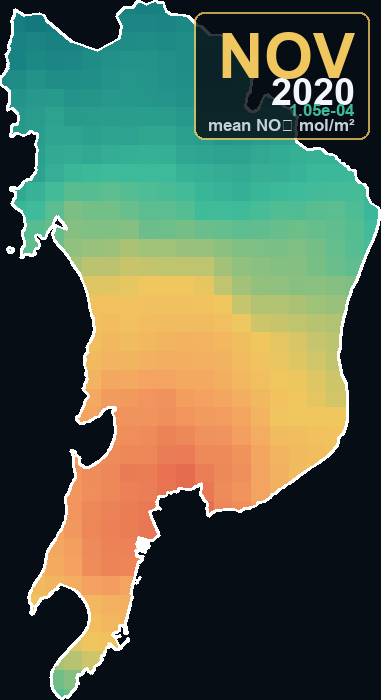
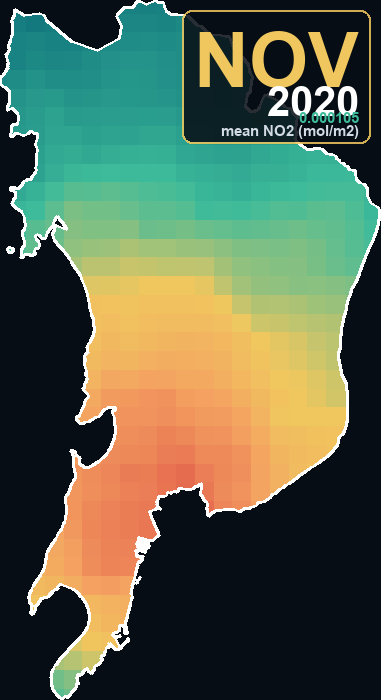
Fix GIF badge text and show NO2 values as normal decimals on the Q2 page.

Changed region(s): [[0.4619, 0.0, 0.9816, 0.21]]

diff --git a/web/q2/index.html b/web/q2/index.html
@@ -190,6 +190,7 @@
       margin: 0 0 8px;
       font-family: "Fraunces", Georgia, serif;
       font-size: clamp(1.35rem, 2.6vw, 1.85rem);
+      font-weight: 700;
       color: #fff;
       letter-spacing: -0.02em;
     }
@@ -263,7 +264,8 @@
     .season strong {
       display: block;
       font-family: "Fraunces", Georgia, serif;
-      font-size: 1.15rem;
+      font-size: 1.05rem;
+      font-weight: 700;
       color: #fff;
       margin-bottom: 2px;
     }
@@ -397,9 +399,9 @@
     .bar.low { background: linear-gradient(180deg, var(--teal), #147a7f); }
 
     .bar-label {
-      font-size: 0.65rem;
-      font-weight: 700;
-      color: var(--muted);
+      font-size: 0.68rem;
+      font-weight: 800;
+      color: var(--soft);
     }
 
     .panel { overflow: hidden; margin-top: 10px; }
@@ -540,11 +542,11 @@
       </p>
       <div class="stats">
         <div class="stat">
-          <strong id="stat-mean">8.61×10⁻⁵</strong>
+          <strong id="stat-mean">0.000086</strong>
           <span>city-wide mean NO₂ (mol/m²)</span>
         </div>
         <div class="stat">
-          <strong id="stat-p75">1.04×10⁻⁴</strong>
+          <strong id="stat-p75">0.000104</strong>
           <span>highest-quartile threshold (P75)</span>
         </div>
         <div class="stat">
@@ -645,7 +647,7 @@
         </div>
 
         <div class="bars" id="month-bars" aria-label="Monthly mean NO2 bar chart"></div>
-        <p style="color:var(--muted);font-size:0.82rem;margin-bottom:8px">
+        <p style="color:var(--soft);font-size:0.9rem;font-weight:800;margin-bottom:8px">
           City-wide monthly means · gold/coral = higher · teal = lowest month
         </p>
 
@@ -659,7 +661,7 @@
               <h3>Temporal result</h3>
               <p>
                 Means peak in December–February and fall from April through August.
-                December is highest (~1.68×10⁻⁴ mol/m²); May is lowest (~2.53×10⁻⁵ mol/m²).
+                December is highest (~0.000168 mol/m²); May is lowest (~0.000025 mol/m²).
               </p>
             </div>
             <div class="callout" style="margin-top:10px">
@@ -708,8 +710,8 @@
               <tr><th>Exposure summary</th><th>Value</th></tr>
             </thead>
             <tbody id="summary-table">
-              <tr><td>City-wide mean tropospheric NO₂</td><td>8.61×10⁻⁵ mol/m²</td></tr>
-              <tr><td>Highest-quartile threshold (P75)</td><td>1.04×10⁻⁴ mol/m²</td></tr>
+              <tr><td>City-wide mean tropospheric NO₂</td><td>0.000086 mol/m²</td></tr>
+              <tr><td>Highest-quartile threshold (P75)</td><td>0.000104 mol/m²</td></tr>
               <tr><td>Residents aged 65+ (city total)</td><td>7,31,666</td></tr>
               <tr><td>Residents aged 65+ in highest-NO₂ quartile</td><td>2,38,328</td></tr>
               <tr><td>Share of 65+ in highest-NO₂ quartile</td><td>32.57%</td></tr>
@@ -835,7 +837,7 @@
     const pre = avg([2, 3, 4]);
     const mon = avg([5, 6, 7]);
     const post = avg([8, 9, 10]);
-    const fmt = (v) => v.toExponential(2);
+    const fmt = (v) => Number(v).toFixed(6);
 
     document.getElementById("s-winter").textContent = fmt(winter);
     document.getElementById("s-pre").textContent = fmt(pre);
@@ -862,7 +864,7 @@
       const rel = ((v / annual - 1) * 100);
       const sign = rel >= 0 ? "+" : "";
       return `<tr>
-        <td>${label}</td>
+        <td><b>${label}</b></td>
         <td>${fmt(v)}</td>
         <td>${sign}${rel.toFixed(0)}%</td>
       </tr>`;
@@ -872,17 +874,17 @@
       .then((r) => r.ok ? r.json() : Promise.reject())
       .then((data) => {
         document.getElementById("stat-mean").textContent =
-          Number(data.no2_city_mean_mol_m2).toExponential(2);
+          fmt(data.no2_city_mean_mol_m2);
         document.getElementById("stat-p75").textContent =
-          Number(data.no2_p75_mol_m2).toExponential(2);
+          fmt(data.no2_p75_mol_m2);
         document.getElementById("stat-pop65").textContent =
           (Math.round(data.pop65_total) / 100000).toFixed(2) + " lakh";
         document.getElementById("stat-share").textContent =
           Number(data.share_pop65_in_highest_no2_quartile_percent).toFixed(1) + "%";
 
         document.getElementById("summary-table").innerHTML = `
-          <tr><td>City-wide mean tropospheric NO₂</td><td>${Number(data.no2_city_mean_mol_m2).toExponential(2)} mol/m²</td></tr>
-          <tr><td>Highest-quartile threshold (P75)</td><td>${Number(data.no2_p75_mol_m2).toExponential(2)} mol/m²</td></tr>
+          <tr><td>City-wide mean tropospheric NO₂</td><td>${fmt(data.no2_city_mean_mol_m2)} mol/m²</td></tr>
+          <tr><td>Highest-quartile threshold (P75)</td><td>${fmt(data.no2_p75_mol_m2)} mol/m²</td></tr>
           <tr><td>Residents aged 65+ (city total)</td><td>${Math.round(data.pop65_total).toLocaleString("en-IN")}</td></tr>
           <tr><td>Residents aged 65+ in highest-NO₂ quartile</td><td>${Math.round(data.pop65_in_highest_no2_quartile).toLocaleString("en-IN")}</td></tr>
           <tr><td>Share of 65+ in highest-NO₂ quartile</td><td>${Number(data.share_pop65_in_highest_no2_quartile_percent).toFixed(2)}%</td></tr>

diff --git a/web/q2/outputs/mumbai_2020_no2_timeslider.html b/web/q2/outputs/mumbai_2020_no2_timeslider.html
@@ -141,15 +141,15 @@
       <span class="m" id="month">JAN</span>
       <span class="y">2020</span>
       <span class="v" id="mean">1.21e-4</span>
-      <span class="s">mean NO₂ mol/m²</span>
+      <span class="s">mean NO2 (mol/m2)</span>
     </div>
   </div>
   <p class="legend">Low → High NO₂ <span class="legend-bar"></span> 0–0.0002 mol/m² · white line = city boundary</p>
   <script>
     const names = ["JAN","FEB","MAR","APR","MAY","JUN","JUL","AUG","SEP","OCT","NOV","DEC"];
     const means = [
-      1.21e-4, 1.34e-4, 6.88e-5, 3.12e-5, 2.53e-5, 3.38e-5,
-      2.62e-5, 3.30e-5, 5.70e-5, 9.03e-5, 1.05e-4, 1.68e-4
+      0.000121, 0.000134, 0.000069, 0.000031, 0.000025, 0.000034,
+      0.000026, 0.000033, 0.000057, 0.000090, 0.000105, 0.000168
     ];
     const slider = document.getElementById("slider");
     const frame = document.getElementById("frame");
@@ -160,7 +160,7 @@
       const m = String(slider.value).padStart(2, "0");
       frame.src = "monthly_frames/no2_2020_" + m + ".png";
       month.textContent = names[i];
-      mean.textContent = means[i].toExponential(2);
+      mean.textContent = means[i].toFixed(6);
     }
     slider.addEventListener("input", update);
     update();

diff --git a/question2/relabel_monthly_frames.py b/question2/relabel_monthly_frames.py
@@ -1,4 +1,4 @@
-"""Put a large month + year label in the top-right of each monthly frame and rebuild the GIF."""
+"""Put a large bold month + year label in the top-right of each monthly frame and rebuild the GIF."""
 from pathlib import Path
 
 from PIL import Image, ImageDraw, ImageFont
@@ -9,7 +9,6 @@ MONTHS = [
     "JAN", "FEB", "MAR", "APR", "MAY", "JUN",
     "JUL", "AUG", "SEP", "OCT", "NOV", "DEC",
 ]
-# city-wide monthly means (mol/m2) from the Q2 analysis
 MEANS = [
     0.00012122771002100347,
     0.0001344614113413094,
@@ -30,8 +29,8 @@ def get_font(size):
     candidates = [
         r"C:\Windows\Fonts\arialbd.ttf",
         r"C:\Windows\Fonts\segoeuib.ttf",
-        r"C:\Windows\Fonts\arial.ttf",
         r"C:\Windows\Fonts\calibrib.ttf",
+        r"C:\Windows\Fonts\arial.ttf",
     ]
     for path in candidates:
         try:
@@ -45,55 +44,55 @@ def label_frame(src: Path, month_idx: int) -> Image.Image:
     im = Image.open(src).convert("RGBA")
     canvas = Image.new("RGBA", im.size, (7, 13, 20, 255))
     canvas.alpha_composite(im)
-    draw = ImageDraw.Draw(canvas)
 
     month = MONTHS[month_idx]
     year = "2020"
-    mean_txt = f"{MEANS[month_idx]:.2e}"
-    sub = "mean NO₂ mol/m²"
+    mean_txt = f"{MEANS[month_idx]:.6f}"
+    sub = "mean NO2 (mol/m2)"
 
-    font_month = get_font(max(48, im.width // 6))
-    font_year = get_font(max(30, im.width // 10))
-    font_sub = get_font(max(16, im.width // 22))
+    font_month = get_font(max(56, im.width // 5))
+    font_year = get_font(max(34, im.width // 9))
+    font_sub = get_font(max(15, im.width // 24))
 
+    # Build a tight badge image first, then paste it.
+    probe = Image.new("RGBA", (800, 400), (0, 0, 0, 0))
+    pdraw = ImageDraw.Draw(probe)
     lines = [
         (month, font_month, (240, 199, 94, 255)),
-        (year, font_year, (243, 247, 251, 255)),
+        (year, font_year, (255, 255, 255, 255)),
         (mean_txt, font_sub, (61, 187, 154, 255)),
-        (sub, font_sub, (197, 208, 220, 255)),
+        (sub, font_sub, (210, 218, 228, 255)),
     ]
 
-    widths = []
-    heights = []
+    pad_x, pad_y, gap = 12, 8, 2
+    widths, heights = [], []
     for text, font, _ in lines:
-        bbox = draw.textbbox((0, 0), text, font=font)
+        bbox = pdraw.textbbox((0, 0), text, font=font)
         widths.append(bbox[2] - bbox[0])
         heights.append(bbox[3] - bbox[1])
 
-    pad_x, pad_y, gap = 14, 10, 3
     block_w = max(widths) + pad_x * 2
     block_h = sum(heights) + gap * (len(lines) - 1) + pad_y * 2
-    x0 = im.width - block_w - 12
-    y0 = 12
 
-    overlay = Image.new("RGBA", im.size, (0, 0, 0, 0))
-    odraw = ImageDraw.Draw(overlay)
-    odraw.rounded_rectangle(
-        [x0, y0, x0 + block_w, y0 + block_h],
+    badge = Image.new("RGBA", (block_w, block_h), (0, 0, 0, 0))
+    bdraw = ImageDraw.Draw(badge)
+    bdraw.rounded_rectangle(
+        [0, 0, block_w - 1, block_h - 1],
         radius=10,
-        fill=(7, 13, 20, 210),
-        outline=(240, 199, 94, 200),
+        fill=(7, 13, 20, 220),
+        outline=(240, 199, 94, 220),
         width=2,
     )
-    canvas = Image.alpha_composite(canvas, overlay)
-    draw = ImageDraw.Draw(canvas)
 
-    y = y0 + pad_y - 2
+    y = pad_y
     for (text, font, color), w, h in zip(lines, widths, heights):
-        x = x0 + block_w - pad_x - w
-        draw.text((x, y), text, font=font, fill=color)
+        x = block_w - pad_x - w
+        bdraw.text((x, y), text, font=font, fill=color)
         y += h + gap
 
+    x0 = im.width - block_w - 10
+    y0 = 10
+    canvas.alpha_composite(badge, (x0, y0))
     return canvas.convert("RGB")
 
 
@@ -101,13 +100,11 @@ def main():
     frame_paths = []
     for i in range(1, 13):
         src = FRAMES / f"no2_2020_{i:02d}.png"
-        if not src.exists():
-            raise FileNotFoundError(src)
         labeled = label_frame(src, i - 1)
         out = FRAMES / f"labeled_{i:02d}.png"
         labeled.save(out)
         frame_paths.append(out)
-        print("Labeled", out.name)
+        print("Labeled", out.name, f"{MEANS[i-1]:.6f}")
 
     frames = [Image.open(p).convert("RGB") for p in frame_paths]
     gif = OUT / "mumbai_2020_monthly_no2.gif"
